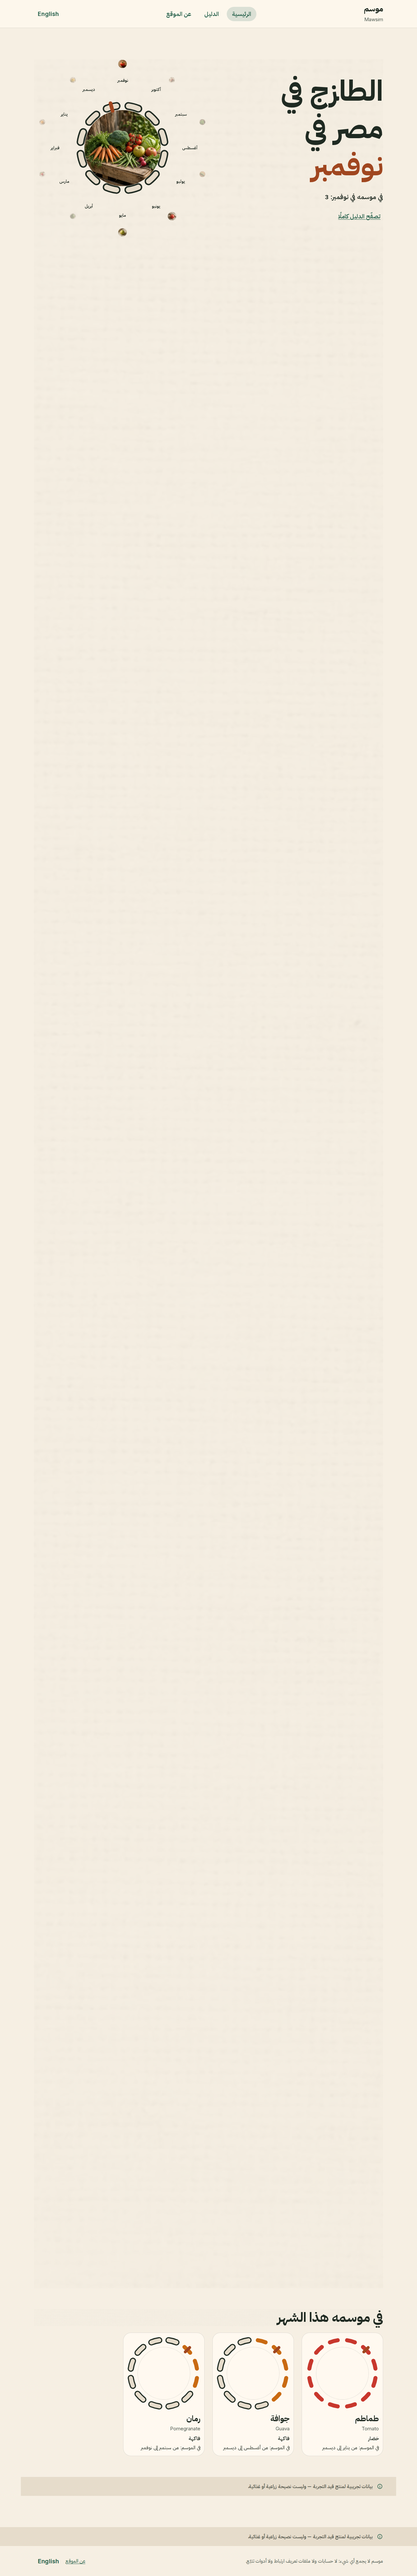
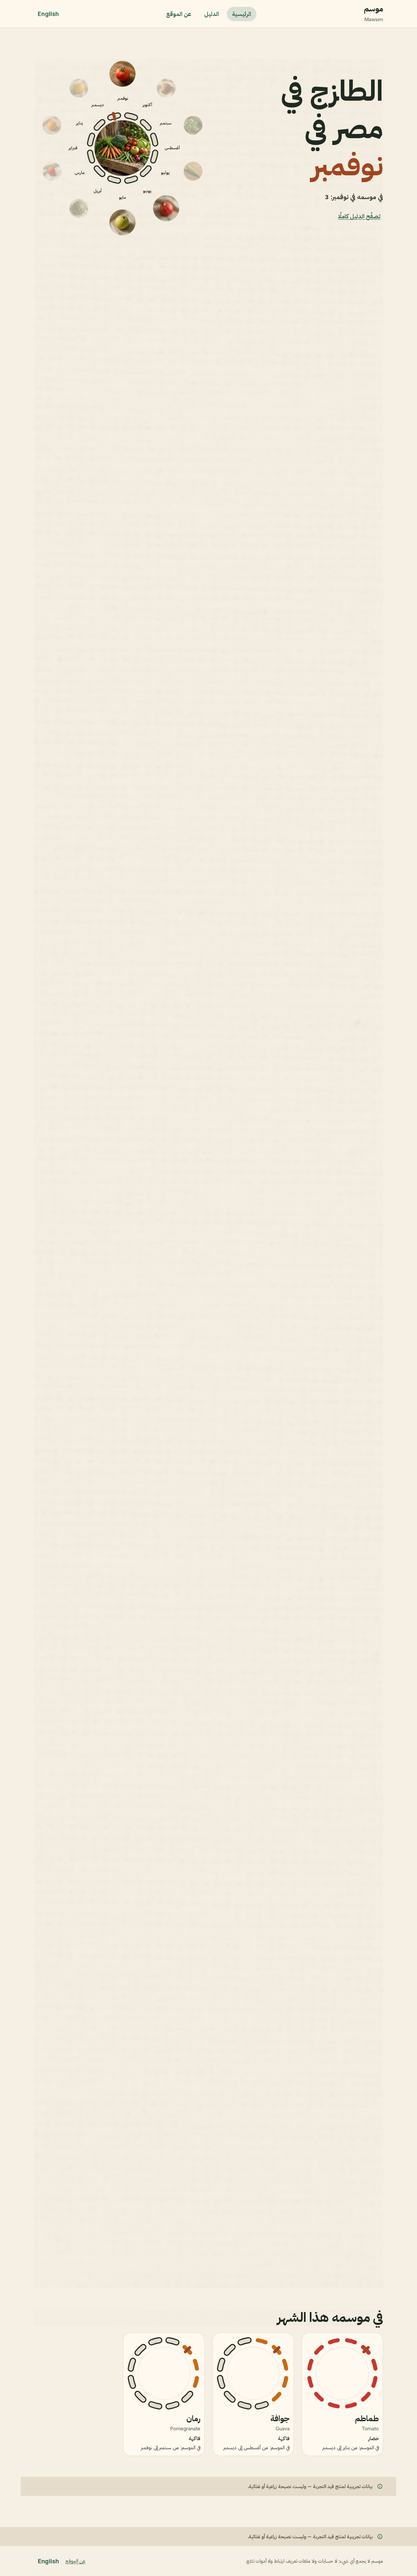
T21 a2: builder (grok-4.7-high, effort high, fast no) (stage 2 of 2)

Changed region(s): [[0.0938, 0.0, 0.5, 0.0937]]

diff --git a/e2e/year-story.spec.ts b/e2e/year-story.spec.ts
@@ -770,6 +770,15 @@ test.describe("year story settled axe", () => {
         await page.setViewportSize({ width, height: width === 390 ? 844 : 900 });
         await page.goto(`/${locale}`);
         await page.locator("[data-dial-label]").first().waitFor();
+        // The in-season cells rise from opacity 0. Axe samples that blend as a contrast failure.
+        await expect.poll(async () =>
+          page.locator("[data-reveal-item]").evaluateAll((cells) =>
+            cells.every((cell) => {
+              const rising = cell.getAnimations().some((animation) => animation.playState === "running");
+              return !rising && getComputedStyle(cell).opacity === "1";
+            }),
+          ),
+        ).toBe(true);
         const violations = await new AxeBuilder({ page }).withTags(AXE_TAGS).analyze();
         console.log(`year-story ${locale} ${width} axe=${violations.violations.length}`);
         expect(violations.violations).toEqual([]);

diff --git a/docs/reports/T21.md b/docs/reports/T21.md
@@ -461,3 +461,168 @@ Model: Cursor · grok-4.7-high · Mode: automated
 - No dependency was added or upgraded. Lenis, the timeline, the slots, the reserved length and the catalogue keys are untouched.
 - The security sheets add no step. This stage accepts no caller input and names no object. The project boundary is the stricter rule. No route, cookie, storage, fetch or log was added.
 - Chromium was not installed on the first launch. `pnpm exec playwright install chromium` downloaded it. No package was added. A local path in that tool's output is not pasted.
+
+## Attempt 2 · Stage 2 of 2
+
+STATUS: DONE
+Fence: docs/fences/T21.md (Fence version v2)
+Model: Cursor · grok-4.7-high · Mode: automated
+
+### Steps
+- S0 — done — Stage 2 preconditions. `node scripts/devos/fence-check.mjs docs/fences/T21.md` prints `fence-check: docs/fences/T21.md OK`. `node -p "require('./node_modules/gsap/package.json').version"` prints `3.15.1`. The report already has `## Attempt 2 · Stage 1 of 2`, and that stage's geometry is in the tree. No Context7 lookup: this stage captures and proves the suite; it does not call a library API.
+- S5 — done — `pnpm build` first, because `screens.mjs` serves `pnpm exec next start` and `.next` was absent (exit 0, static pages generated). `ss -ltn` showed no listener on 3200 or 4173. `node scripts/devos/screens.mjs --task T21` then printed shift 0, console 0, failed 0, a11y 0 for all four captures. `node scripts/devos/ui-evidence.mjs --task T21` printed `ui-evidence: PASS — 4 captures` and `a11y: PASS — 4 captures`. The first `screens.mjs` launch had no Chromium; `pnpm exec playwright install chromium` downloaded it and no package was added. That failed launch left `next-server` on port 3200 (pids 4236, 4224, 4223). Those three pids were stopped with `kill`. The port was free before `run-checks`.
+- S6 — done — One sentence per settled capture, below. Sizes are the step-3 measurements, confirmed again by this stage's `pnpm e2e`.
+- S7 — done — `cp .devos/screens/home-ar-1280.png docs/screenshots/home-ar.png`. `cmp` prints nothing. Every README line stays, including the year-story feature line and the screenshot link. README was not edited.
+
+### Settled captures
+- `home-ar` at 1280 is right to left: the headline sits at the inline start and the dial at the inline end, the `h1` names نوفمبر, نوفمبر is at 12 o'clock, and the forward circles are tomato, guava and pomegranate at 5.10rem. Reduced-motion twin: `home-ar-1280-reduced.png`, the same settled November story at its natural height, with the in-season grid directly under the stage.
+- `home-ar` at 390 is right to left, with the `h1` above the dial: the `h1` names نوفمبر, نوفمبر is at 12 o'clock, and the forward circles are tomato, guava and pomegranate at 2.41rem. Reduced-motion twin: `home-ar-390-reduced.png`.
+- `home-en` at 1280 is left to right: the headline sits at the inline start and the dial at the inline end, the `h1` names November, Nov is at 12 o'clock, and the forward circles are tomato, guava and pomegranate at 5.10rem. Reduced-motion twin: `home-en-1280-reduced.png`.
+- `home-en` at 390 is left to right, with the `h1` above the dial: the `h1` names November, Nov is at 12 o'clock, and the forward circles are tomato, guava and pomegranate at 2.41rem. Reduced-motion twin: `home-en-390-reduced.png`.
+
+### Done when
+- D1 — PASS — `timeout 1200 env TASK=T21 node scripts/devos/run-checks.mjs --strict` after the axe wait (exit 0). `ss -ltn` before it showed no listener on 3200 or 4173.
+  ```
+  PASS               guards
+  PASS               typecheck
+  PASS               lint
+  PASS               test
+  PASS               build
+  PASS               e2e (optional)
+  all required checks passed
+  ```
+  `guards.log`: `guard:design PASS`, `guard:design-spec PASS`, `guard:i18n PASS` (87 keys per locale), `guard:naming PASS`, `guard:literals PASS`, `guard:boundary PASS` (34 built HTML files, profile A, zone `health`), `guard:imports PASS`, `guard:scope PASS (44 changed path(s), 18 Paths entries)`. After `ci-results.json` existed, `node scripts/devos/ui-evidence.mjs --task T21` printed `ui-evidence: PASS — 4 captures` and `a11y: PASS — 4 captures`. Both are `status: pass`, `required: true` in `.devos/ci-results.json` (`all_required_passed: true`, `failed_required: []`). `.devos/screens/motion.json`: `states_from=docs/fences/T21.md`, 4 captures, layout shift 0 and reduced-motion layout shift 0, no error, no failed request, no console error, axe 0, both states, both widths. An earlier `run-checks` on this stage, before the axe wait, exited 0 with `FAIL e2e (optional)` because the settled axe test raced the card rise. That is the fix in S5's note below, and the command pasted here is the run after the fix.
+- D2 — PASS — `pnpm exec vitest run`
+  ```
+  Test Files  40 passed (40)
+       Tests  242 passed (242)
+  ```
+  Whole-fence sum, named in Attempt 1 and in Attempt 2 Stage 1: baseline 247. Removed `it` 18. Added `it` 12 in attempt 1, plus Stage 1's one orbit-floor `it`. 247 − 18 + 13 = 242. Stage 2 adds no Vitest file and no `it`. The workspace path on Vitest's `RUN` line is `[redacted]`.
+- D3 — PASS — `node -p "Object.keys(require('./package.json').dependencies).join(' ')"` prints `gsap lenis next pino react react-dom`. `git diff origin/main -- package.json` adds only `lenis` and removes only `three`, `@react-three/fiber` and `@types/three`.
+- D4 — PASS — `pnpm build` inside the passing `run-checks`. Then `grep -rlE "WebGLRenderer|@react-three" .next/static` prints nothing. `git diff --stat origin/main -- next.config.ts src/app/api "src/app/[locale]/layout.tsx" src/modules/guide src/components` prints nothing. `grep -rn --exclude='*.test.*' "fetch(\|XMLHttpRequest\|sendBeacon\|localStorage\|sessionStorage\|document.cookie\|<script" src/modules/home` prints nothing.
+- D5 — PASS — `grep -rln --exclude='*.test.*' "use client" src/modules/home` prints only `src/modules/home/YearStoryMotion.tsx`. `grep -rln "use client" src/modules/produce` prints nothing.
+- D6 — PASS — `grep -rn "scene-turn\|scene-size\|scenePause\|dialCount\|HeroScene\|SeasonDial\|data-season-dial" src e2e tests` prints nothing.
+- D7 — PASS — `pnpm e2e` (default workers)
+  ```
+  Running 116 tests using 2 workers
+  116 passed (2.1m)
+  ```
+  Year-story lines from that run:
+  ```
+  year-story ar 1280 header k=0 heading=136.9 object=96.0 link=555.1
+  year-story ar 1280 k=1 month=12 before=-30.00 at=0.00 forward=tomato,orange,guava
+  year-story ar 1280 k=6 month=5 before=-30.00 at=-0.00 forward=tomato,molokhia
+  year-story ar 1280 header k=6 heading=95.9 object=55.0 link=514.1
+  year-story ar 1280 k=11 month=10 before=-30.00 at=-0.00 forward=tomato,mango,guava,pomegranate,dates
+  year-story ar 1280 still rotation=-30 frames=30
+  year-story ar 1280 shift=0
+  year-story ar 1280 at320 scrollWidth=320 clientWidth=320
+  year-story ar 1280 origin=ok
+  year-story ar 390 header k=0 heading=68.0 object=334.3 link=266.3
+  year-story ar 390 k=1 month=12 before=-30.00 at=0.03 forward=tomato,orange,guava
+  year-story ar 390 k=6 month=5 before=-30.02 at=0.02 forward=tomato,molokhia
+  year-story ar 390 header k=6 heading=3.0 object=269.3 link=201.3
+  year-story ar 390 k=11 month=10 before=-30.03 at=-0.06 forward=tomato,mango,guava,pomegranate,dates
+  year-story ar 390 still rotation=-30.059 frames=30
+  year-story ar 390 shift=0
+  year-story ar 390 at320 scrollWidth=320 clientWidth=320
+  year-story ar 390 origin=ok
+  year-story en 1280 header k=0 heading=127.5 object=96.0 link=564.5
+  year-story en 1280 k=1 month=12 before=30.00 at=-0.00 forward=tomato,orange,guava
+  year-story en 1280 k=6 month=5 before=30.00 at=0.00 forward=tomato,molokhia
+  year-story en 1280 header k=6 heading=86.5 object=55.0 link=523.5
+  year-story en 1280 k=11 month=10 before=30.00 at=0.00 forward=tomato,mango,guava,pomegranate,dates
+  year-story en 1280 still rotation=30 frames=30
+  year-story en 1280 shift=0
+  year-story en 1280 at320 scrollWidth=320 clientWidth=320
+  year-story en 1280 origin=ok
+  year-story en 390 header k=0 heading=68.0 object=355.0 link=287.0
+  year-story en 390 k=1 month=12 before=30.00 at=-0.03 forward=tomato,orange,guava
+  year-story en 390 k=6 month=5 before=30.02 at=0.04 forward=tomato,molokhia
+  year-story en 390 header k=6 heading=3.0 object=290.0 link=222.0
+  year-story en 390 k=11 month=10 before=30.03 at=0.06 forward=tomato,mango,guava,pomegranate,dates
+  year-story en 390 still rotation=30.059 frames=30
+  year-story en 390 shift=0
+  year-story en 390 at320 scrollWidth=320 clientWidth=320
+  year-story en 390 origin=ok
+  year-story ar 1280 reduced band=544.0 stage=544.0 month=11 angle=0.00 inline=0 lenis=false
+  year-story ar 390 reduced band=586.3 stage=586.3 month=11 angle=-0.00 inline=0 lenis=false
+  year-story en 1280 reduced band=544.0 stage=544.0 month=11 angle=-0.00 inline=0 lenis=false
+  year-story en 390 reduced band=607.0 stage=607.0 month=11 angle=0.00 inline=0 lenis=false
+  year-story ar 1280 nojs hiddenSlot=true height=auto band=0.0 stage=0.0
+  year-story ar 390 nojs hiddenSlot=true height=auto band=0.0 stage=0.0
+  year-story en 1280 nojs hiddenSlot=true height=auto band=0.0 stage=0.0
+  year-story en 390 nojs hiddenSlot=true height=auto band=0.0 stage=0.0
+  year-story ar 1280 keyboard skip=focused mainTop=86.4 pageDown=0.0->518.0
+  year-story ar 390 keyboard skip=focused mainTop=96.4 pageDown=42.0->549.0
+  year-story en 1280 keyboard skip=focused mainTop=77.2 pageDown=0.0->553.0
+  year-story en 390 keyboard skip=focused mainTop=96.2 pageDown=33.0->527.0
+  year-story ar 1280 teardown lenis=false style=
+  year-story ar 390 teardown lenis=false style=
+  year-story en 1280 teardown lenis=false style=
+  year-story en 390 teardown lenis=false style=
+  year-story ar 1280 axe=0
+  year-story ar 390 axe=0
+  year-story en 1280 axe=0
+  year-story en 390 axe=0
+  ```
+  The same run's guide landings were `/ar/guide?month=12`, `/ar/guide?month=5`, `/ar/guide?month=10` and the English equivalents. `run-checks` then ran `pnpm run e2e` again: `116 passed (2.2m)`, axe 0 on all four.
+- D8 — PASS — `git diff --stat origin/main -- e2e/guide-turn.spec.ts e2e/guide-dial.spec.ts e2e/guide-reveal.spec.ts e2e/card-motion.spec.ts e2e/card-cover.spec.ts` prints nothing. Those specs passed inside D7.
+- D9 — PASS — `pnpm exec vitest run src/modules/produce`
+  ```
+  Test Files  14 passed (14)
+       Tests  112 passed (112)
+  ```
+  The orbit-floor `it`, the centre-clearance assertion, and `renders a centre or the story size on the guide dial` are the Stage 1 tests. Stage 2 does not change them.
+- D10 — PASS —
+  - `node -e "console.log(require('./src/i18n/messages/en.json').home.storyCount+'|'+require('./src/i18n/messages/ar.json').home.storyCount)"` prints `In season in {month}: {count}|في موسمه في {month}: {count}`.
+  - `git status --porcelain -- content public` prints nothing.
+  - `find src -name route.ts` prints only `src/app/api/health/route.ts`.
+  - `node -e "console.log(require('./content/produce.json').length)"` prints `10`.
+  - `cmp docs/screenshots/home-ar.png .devos/screens/home-ar-1280.png` prints nothing. `README.md` links `docs/screenshots/home-ar.png` (line 15). The feature line `- [x] The home page's year story` is still there.
+  - This report has `## Attempt 2 · Stage 1 of 2` and `## Attempt 2 · Stage 2 of 2`.
+- D11 — PASS — the sizes lines from the same `pnpm e2e` as D7. At 390 and 1280, both locales, steps 0 and 6: forward 2.41 and 5.10, disc 6.79 and 10.72, label gap at least 3.22px, circle gap at least 1.92px, tickClear from 1.28px to 1.48px. The 320 lines are pasted and not judged. Arabic at 320 has `minLabelGap=-0.12`, the limit already logged on attempt 1.
+  ```
+  year-story ar 320 sizes step=0 forward=2.11 disc=5.93 minLabelGap=-0.12 minCircleGap=1.68 tickClear=1.26
+  year-story ar 320 sizes step=6 forward=2.11 disc=5.93 minLabelGap=-0.12 minCircleGap=1.68 tickClear=1.26
+  year-story ar 390 sizes step=0 forward=2.41 disc=6.79 minLabelGap=3.22 minCircleGap=1.92 tickClear=1.30
+  year-story ar 390 sizes step=6 forward=2.41 disc=6.79 minLabelGap=3.22 minCircleGap=1.92 tickClear=1.28
+  year-story ar 1280 sizes step=0 forward=5.10 disc=10.72 minLabelGap=18.40 minCircleGap=3.27 tickClear=1.48
+  year-story ar 1280 sizes step=6 forward=5.10 disc=10.72 minLabelGap=18.40 minCircleGap=3.27 tickClear=1.48
+  year-story en 320 sizes step=0 forward=2.11 disc=5.93 minLabelGap=7.39 minCircleGap=1.68 tickClear=1.26
+  year-story en 320 sizes step=6 forward=2.11 disc=5.93 minLabelGap=8.19 minCircleGap=1.68 tickClear=1.26
+  year-story en 390 sizes step=0 forward=2.41 disc=6.79 minLabelGap=10.38 minCircleGap=1.92 tickClear=1.30
+  year-story en 390 sizes step=6 forward=2.41 disc=6.79 minLabelGap=11.52 minCircleGap=1.92 tickClear=1.28
+  year-story en 1280 sizes step=0 forward=5.10 disc=10.72 minLabelGap=23.60 minCircleGap=3.27 tickClear=1.48
+  year-story en 1280 sizes step=6 forward=5.10 disc=10.72 minLabelGap=26.05 minCircleGap=3.27 tickClear=1.48
+  ```
+- D12 — PASS — `git diff origin/main -- src/styles/tokens.css` shows only the removal of `--scene-turn` and `--scene-size`. No token is added or changed. `--dial-size` is unchanged.
+- Typecheck — PASS — `pnpm run typecheck` inside the passing `run-checks` (exit 0).
+- Lint — PASS — `pnpm run lint` inside the passing `run-checks` (exit 0).
+- e2e — PASS — `pnpm e2e` printed `116 passed (2.1m)`, and the later `run-checks` e2e printed `116 passed (2.2m)`.
+
+### Files changed
+```
+ M docs/reports/T21.md
+ M docs/screenshots/home-ar.png
+ M e2e/year-story.spec.ts
+```
+Command: `git status --porcelain` after this section was appended. `git diff --stat` before the report append: `docs/screenshots/home-ar.png` binary, `e2e/year-story.spec.ts` 9 insertions.
+
+### Counts
+- Vitest = 40 files, 242 tests — `pnpm exec vitest run` (241 from attempt 1, plus Stage 1's one `it`; Stage 2 adds none)
+- Produce module = 14 files, 112 tests — `pnpm exec vitest run src/modules/produce`
+- Playwright = 116 passed — `pnpm e2e`
+- Captures = 4, layout shift 0, reduced shift 0 — `node scripts/devos/screens.mjs --task T21`
+- `guard:scope` = 44 changed path(s), 18 Paths entries — `node scripts/guards/run-all.mjs` inside `run-checks`
+- Produce rows = 10 — `node -e "console.log(require('./content/produce.json').length)"`
+
+### Carry-forward candidates
+- none. Arabic at 320 still logs `minLabelGap=-0.12`. That limit is already on the attempt 1 verdict, for the developer at G-YearTurns.
+
+### Notes for the reviewer
+- Stage 1's orbit and centre work was left as it is. This stage's only code change is a wait in the settled axe test. The in-season cells rise from opacity 0 (`CardGrid` `.cell`, duration `--dur-3`, the third child delayed). Axe was sampling that blend: foreground `#7e847a` on `#fcf6ec`, ratio 3.57, on the pomegranate counter (`Pomegranate` at ar 390 in the first `run-checks` e2e, then `رمان` at en 390 in the next full `pnpm e2e`). The token pair `--color-ink-muted` `#4F5B52` on `--color-surface` `#FFF9F0` is 6.80:1. The test now waits, with `expect.poll`, until every `[data-reveal-item]` animation is not running and its opacity is `1`. The assertion `expect(violations.violations).toEqual([])` is unchanged. After that wait, the four axe tests passed, then `pnpm e2e` (`116 passed (2.1m)`) and `run-checks` e2e (`116 passed (2.2m)`). `src/modules/guide/**` was not edited.
+- No production file under `src/modules/home` or `YearDial*` needed a change. Lenis, the timeline, the slots, the reserved length and the catalogue keys stay as attempt 1 built them.
+- The first `run-checks` browser install was stopped at its 10 minute limit (`e2e-install.log`, PR-70). Chromium was already installed. The second `run-checks` passed e2e.
+- The required input-validation, object-access and API sheets add no step. This stage accepts no caller input and names no object. Where a sheet and the project boundary differ, the boundary is the stricter rule. No route, cookie, storage, fetch, header or log was added. No dependency was added or upgraded.
+- `motion.json` layout shift is 0 in both motion settings.
